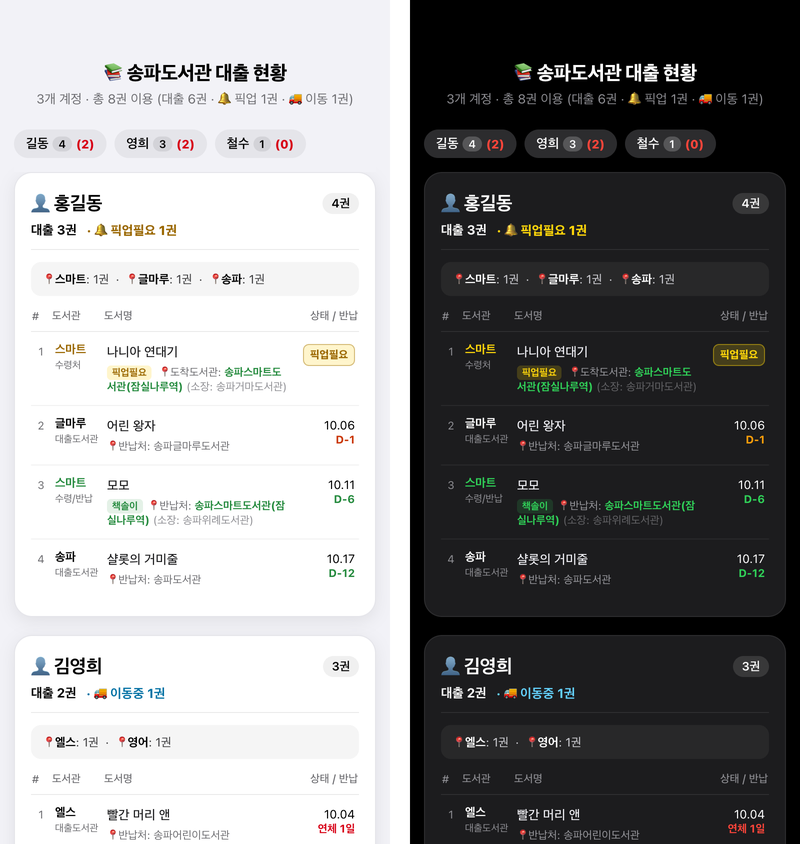
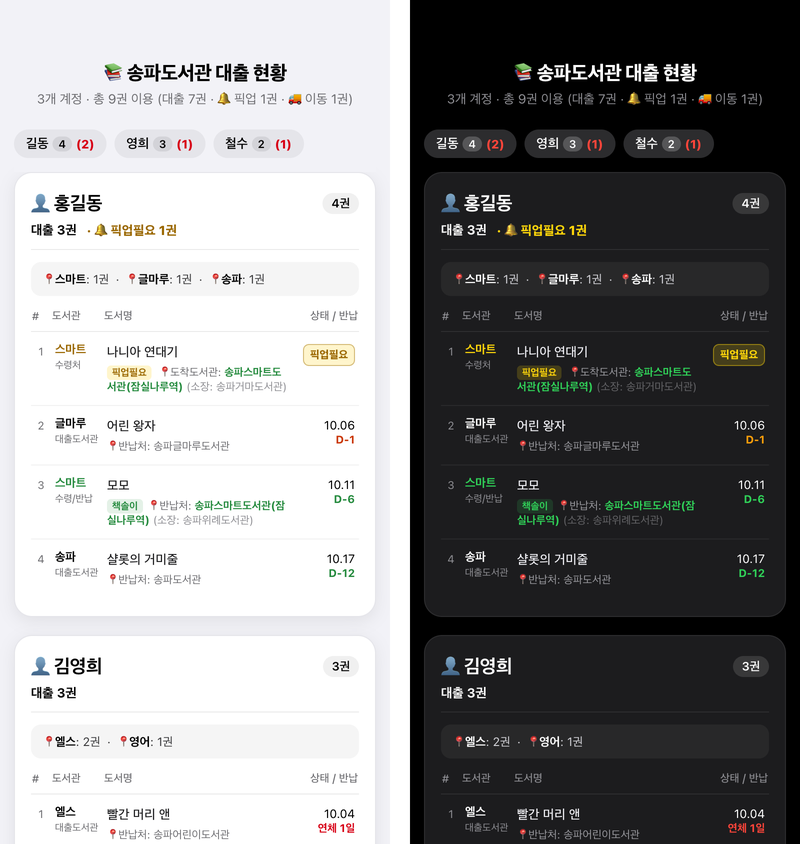
docs: unify sample data across screenshots and use ditto for zip

diff --git a/README.md b/README.md
@@ -25,6 +25,10 @@
 
 <img src="docs/images/scriptable-light-dark.png" alt="아이폰 Scriptable 화면 (라이트/다크)" width="600">
 
+**명령어 `songpa --html`** — 같은 내용을 PC·안드로이드 브라우저에서 카드 화면으로 (라이트/다크 자동)
+
+<img src="docs/images/songpa-html-light-dark.png" alt="songpa --html 카드 화면 (라이트/다크)" width="600">
+
 > 스크린샷은 예시 데이터로 만든 화면입니다.
 
 ## 주요 기능
@@ -213,8 +217,8 @@ open dist/songpa-loan-tracker.app
 
 ### ZIP 파일로 배포
 ```bash
-cd dist
-zip -r songpa-loan-tracker-macOS.zip songpa-loan-tracker.app
+# zip -r 대신 ditto를 쓴다. zip은 앱 번들의 심볼릭 링크·확장 속성을 망가뜨려 압축을 푼 앱이 실행되지 않을 수 있다.
+ditto -c -k --keepParent dist/songpa-loan-tracker.app dist/songpa-loan-tracker-macos.zip
 ```
 
 ### DMG 생성 (선택)
